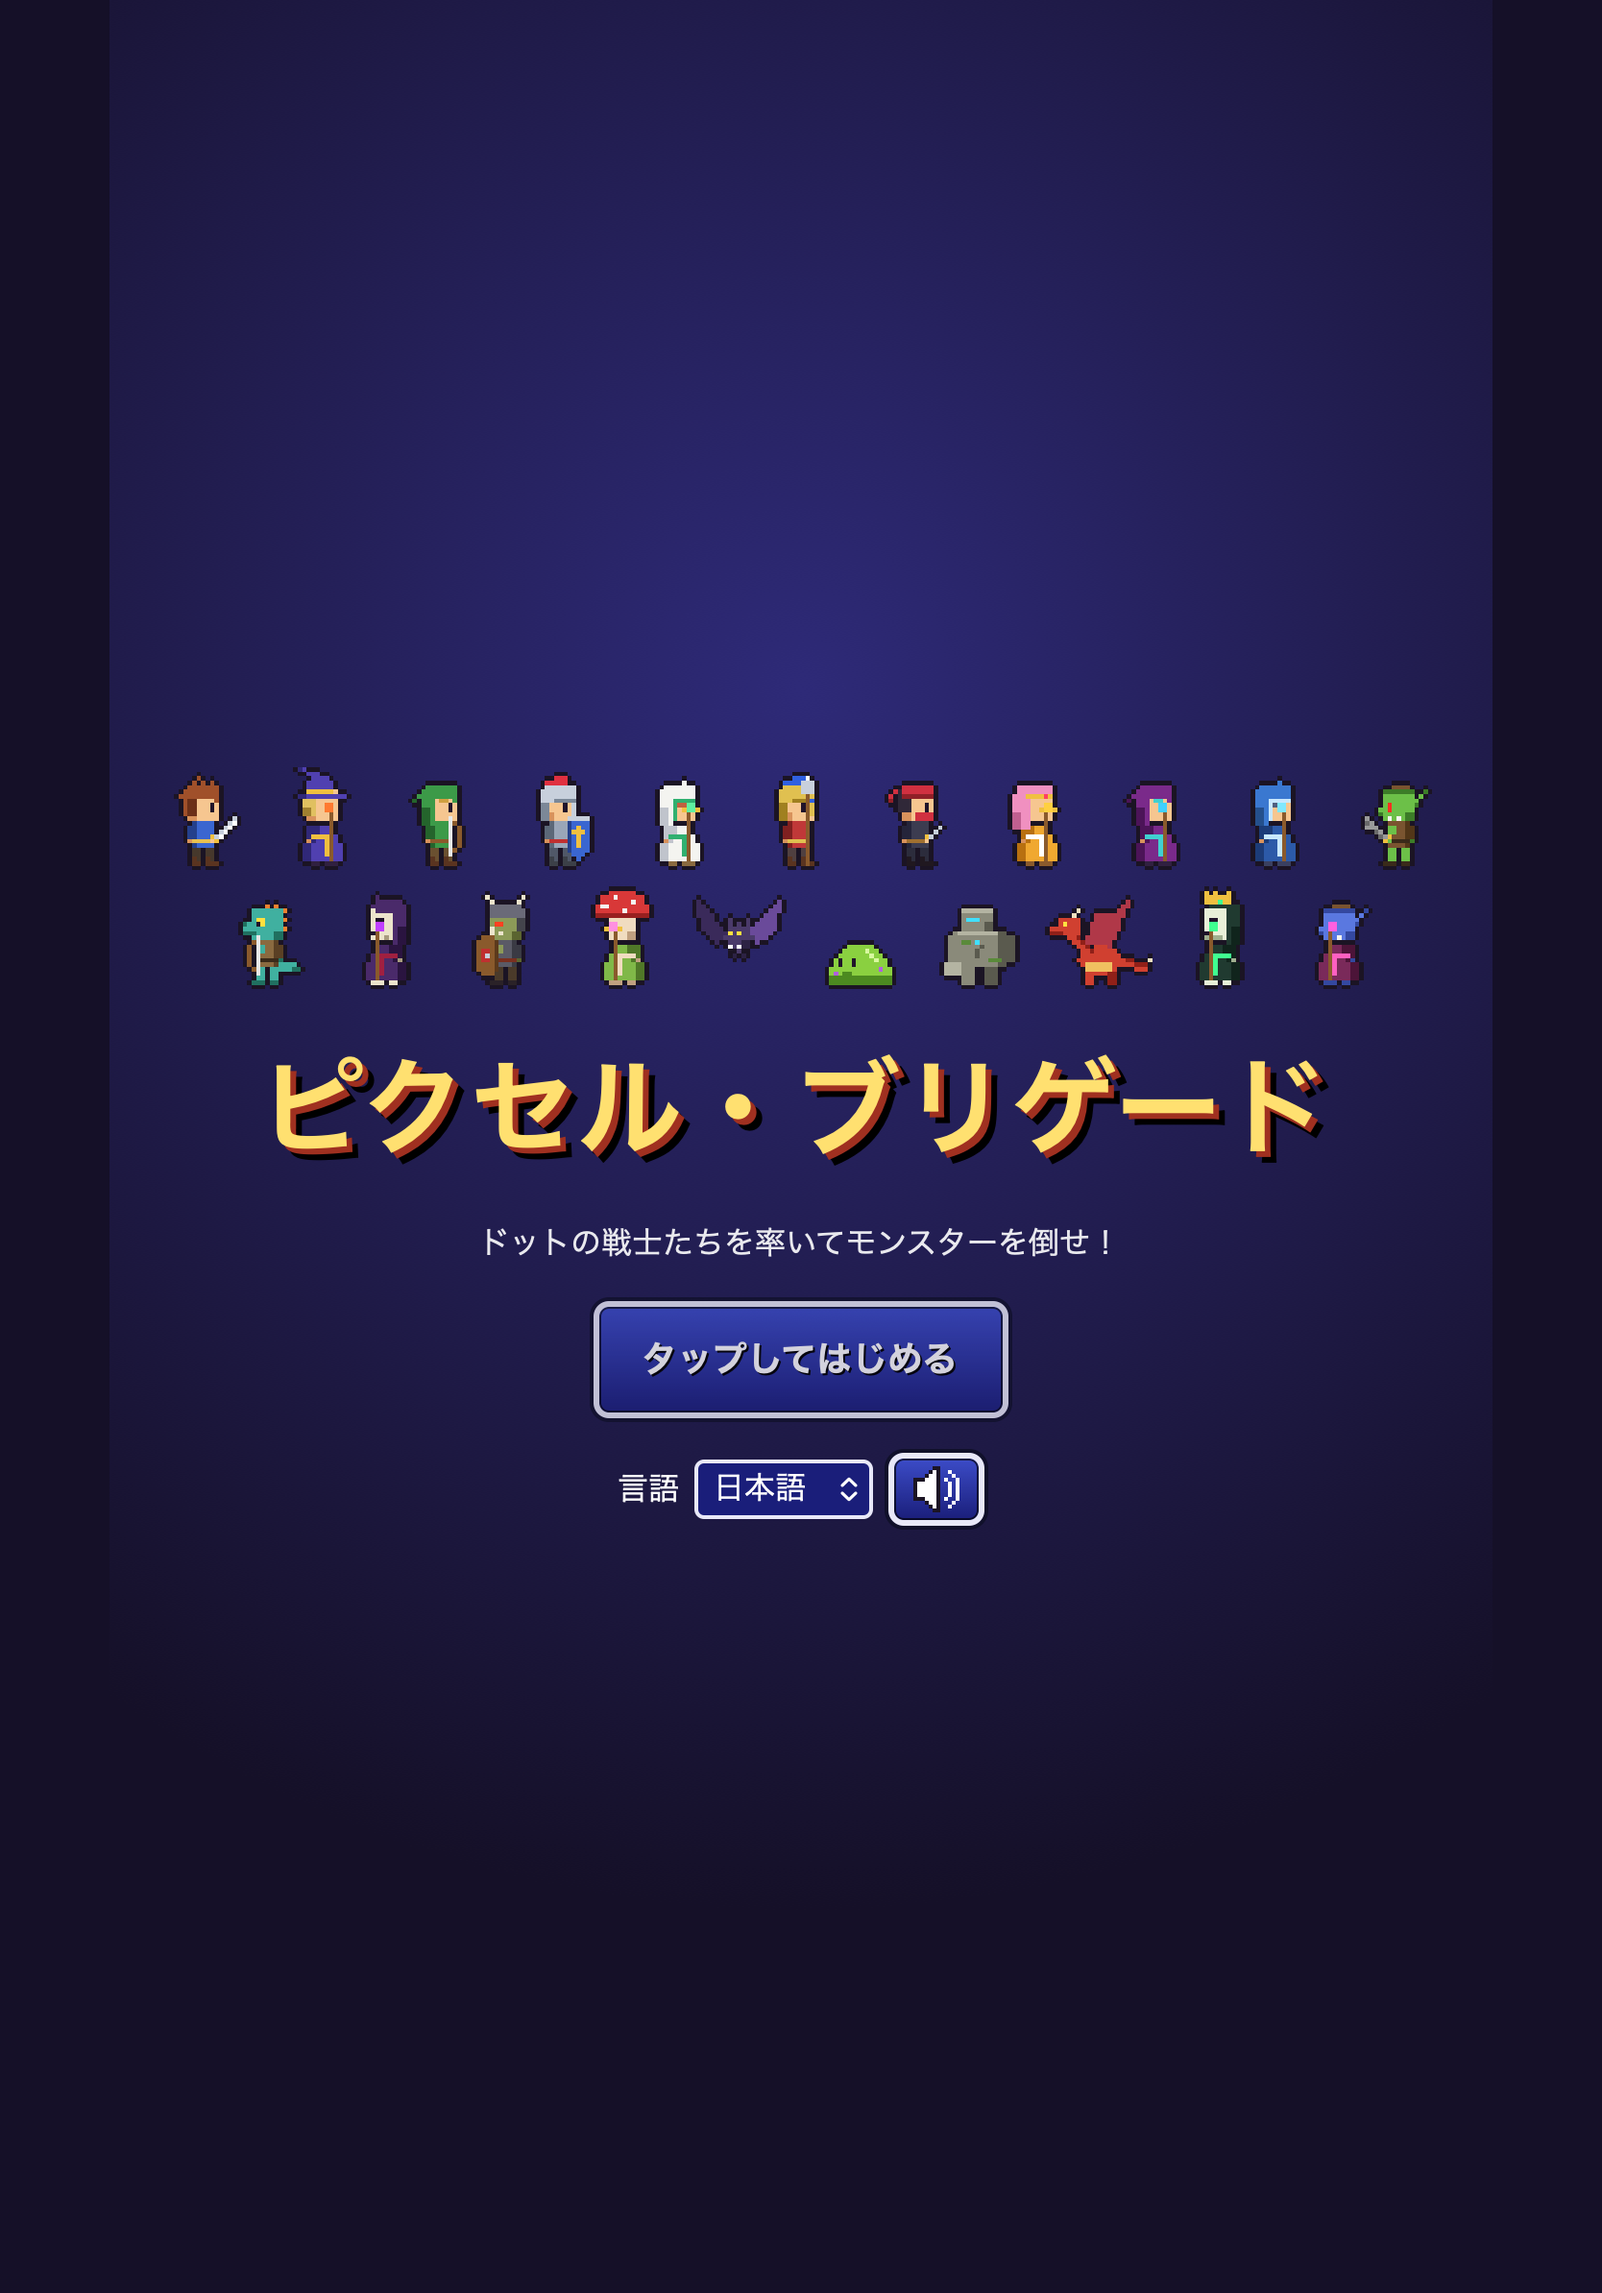
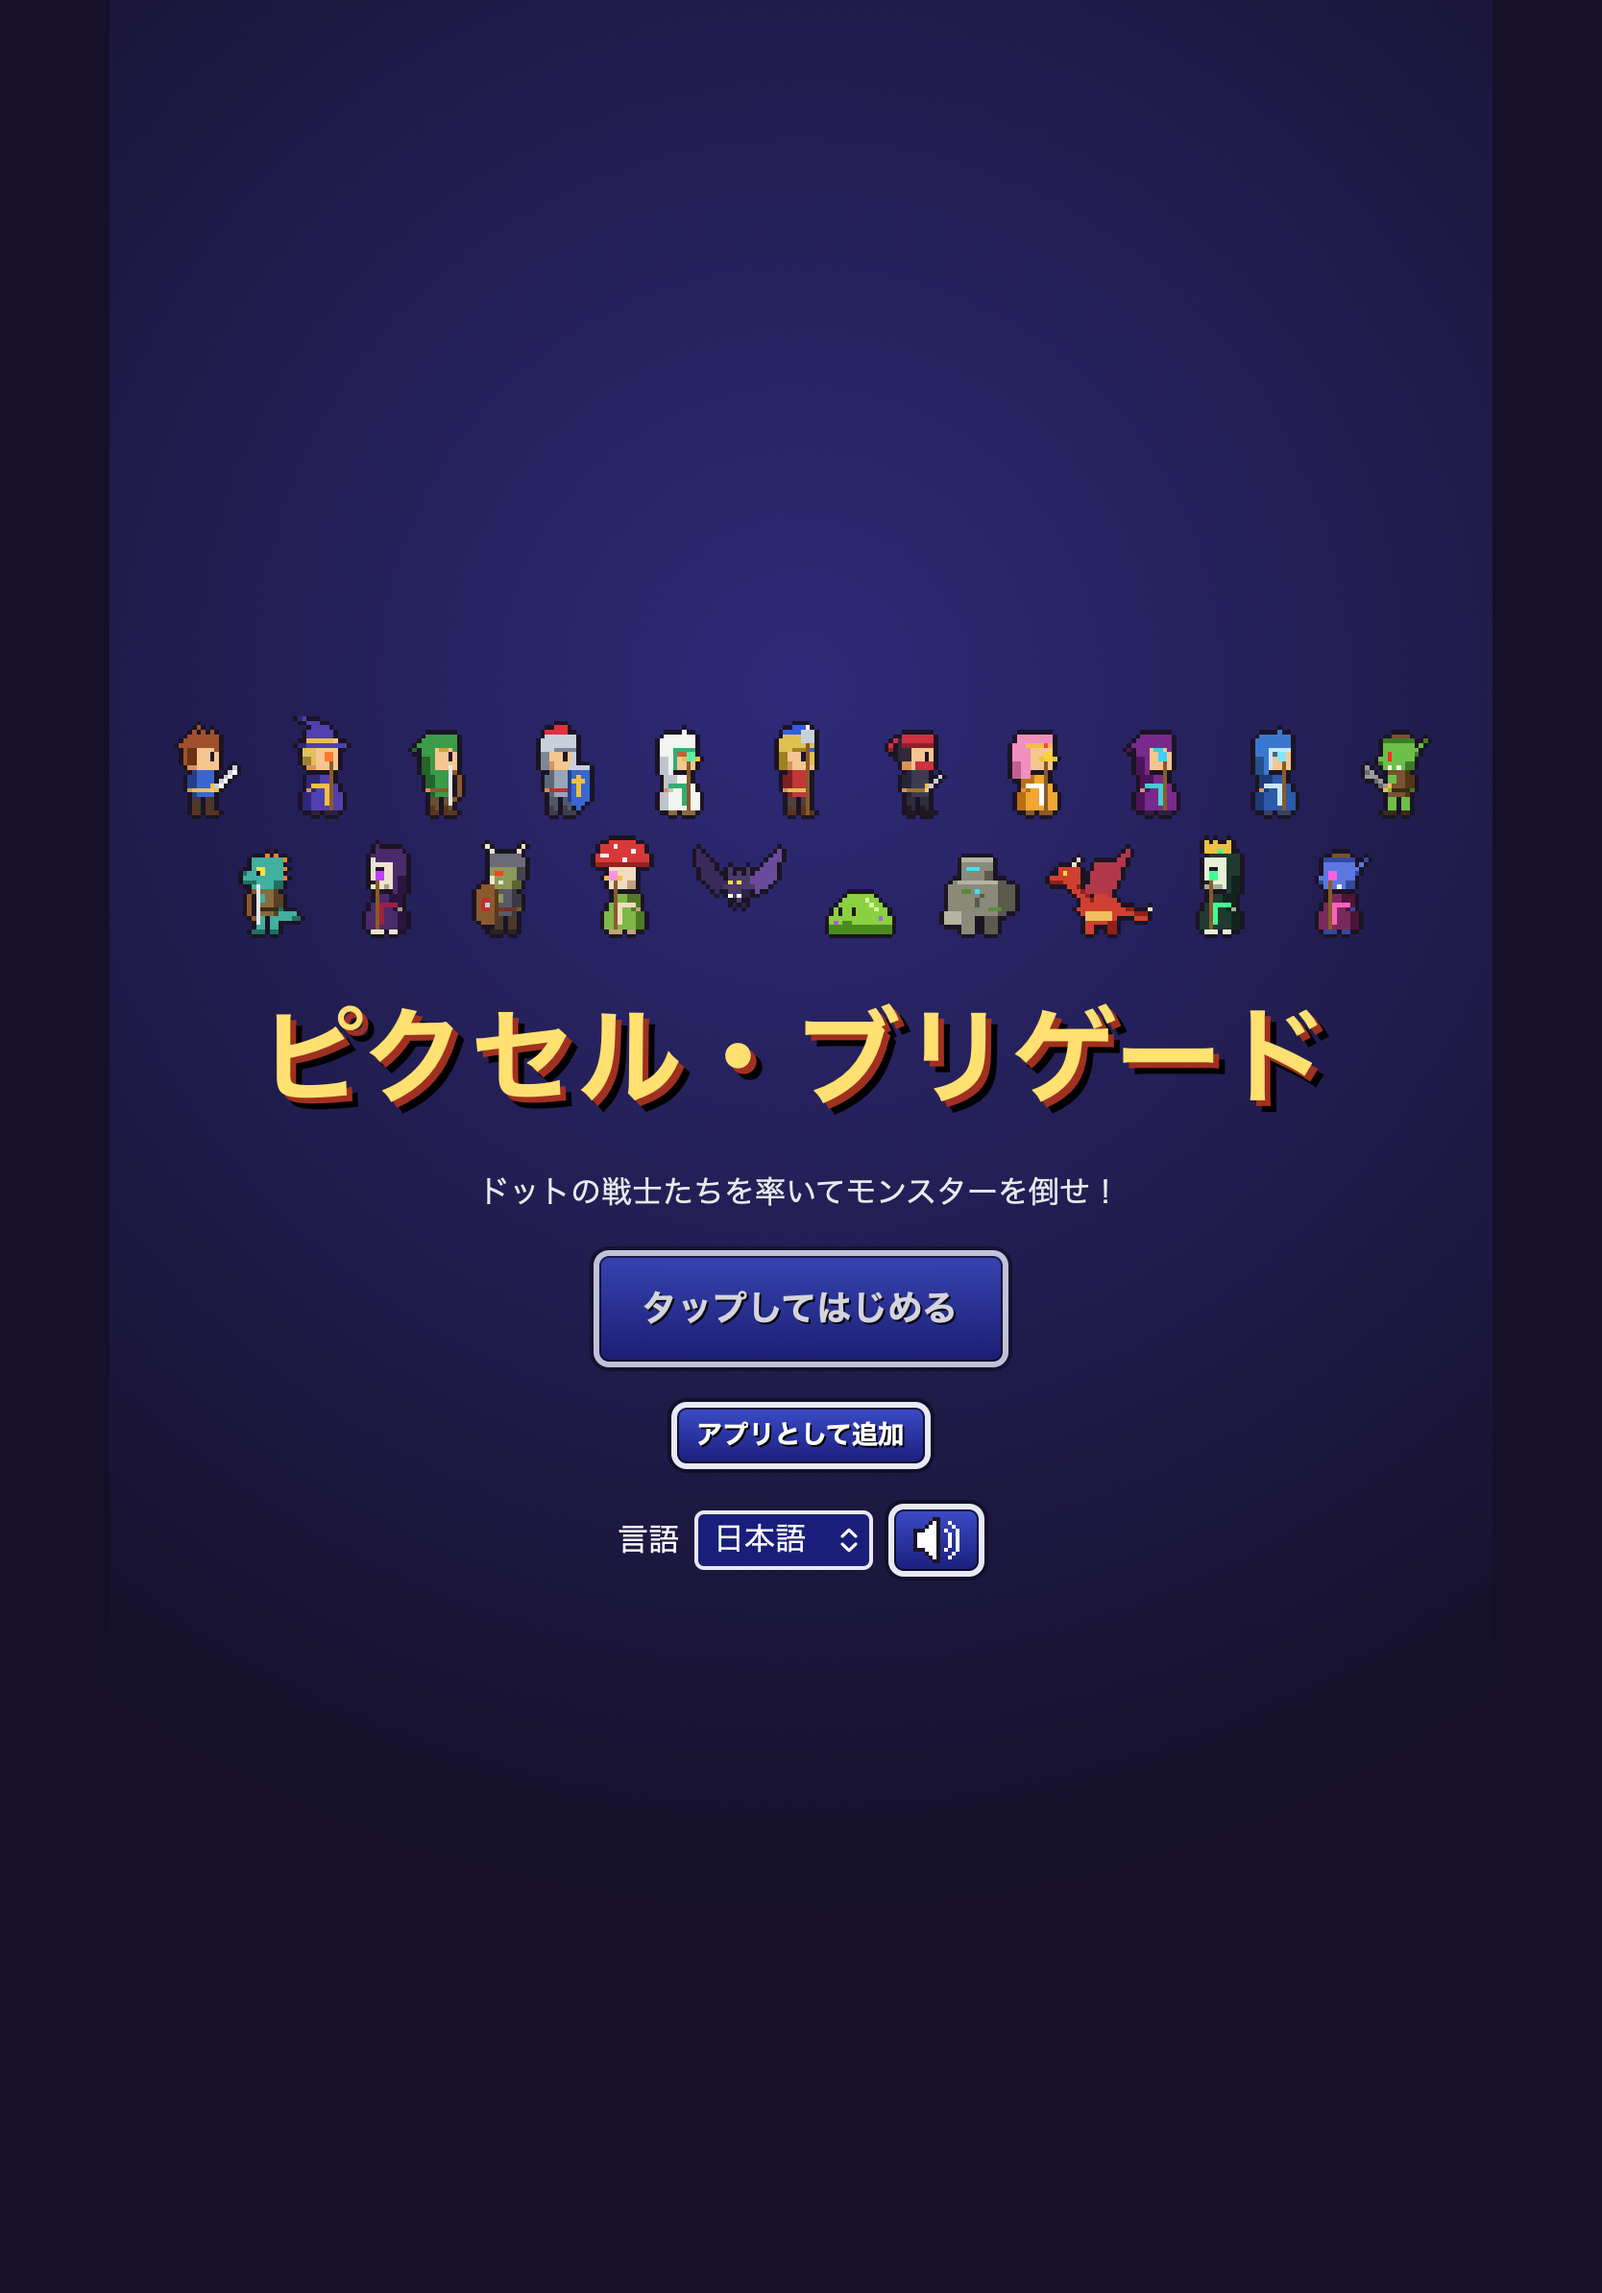
Add PWA install guide for iPhone/iPad and run CI in the Playwright Docker image
- Title screen "Install app" button: uses beforeinstallprompt on Chromium,
  shows Share → Add to Home Screen steps on iOS/iPadOS (incl. Mac-UA iPad)
- apple-touch-icon sizes, i18n strings (ja/en/zh/ko), E2E tests
- CI e2e jobs run in mcr.microsoft.com/playwright container (no apt install),
  dependency-free tests/serve.mjs static server

Changed region(s): [[0.0935, 0.3099, 0.9041, 0.7127]]

diff --git a/js/i18n.js b/js/i18n.js
@@ -3,6 +3,11 @@ export const LANGS = { ja: '日本語', en: 'English', zh: '中文', ko: '한국
 
 export const STRINGS = {
   ja: {
+    'pwa.install': 'アプリとして追加',
+    'pwa.title': 'ホーム画面に追加してアプリとして遊ぶ',
+    'pwa.step1': 'Safari の共有ボタン（□に↑）をタップします',
+    'pwa.step2': '「ホーム画面に追加」を選び、「Web アプリとして開く」をオンにします',
+    'pwa.step3': '右上の「追加」をタップすると、ホーム画面のアイコンから全画面で遊べます',
     'game.title': 'ピクセル・ブリゲード',
     'game.subtitle': 'ドットの戦士たちを率いてモンスターを倒せ！',
     'title.tap': 'タップしてはじめる',
@@ -80,6 +85,11 @@ export const STRINGS = {
     'result.home': 'ホームへ',
   },
   en: {
+    'pwa.install': 'Install app',
+    'pwa.title': 'Add to Home Screen to play as an app',
+    'pwa.step1': 'Tap the Share button (square with ↑) in Safari',
+    'pwa.step2': 'Choose “Add to Home Screen” and turn on “Open as Web App”',
+    'pwa.step3': 'Tap “Add”. Launch from the Home Screen icon to play full screen',
     'game.title': 'Pixel Brigade',
     'game.subtitle': 'Lead your pixel warriors against the monsters!',
     'title.tap': 'Tap to start',
@@ -157,6 +167,11 @@ export const STRINGS = {
     'result.home': 'Home',
   },
   zh: {
+    'pwa.install': '添加为应用',
+    'pwa.title': '添加到主屏幕，以应用方式游玩',
+    'pwa.step1': '点击 Safari 的分享按钮（方框加↑）',
+    'pwa.step2': '选择“添加到主屏幕”，并开启“作为网页 App 打开”',
+    'pwa.step3': '点击“添加”，之后从主屏幕图标全屏游玩',
     'game.title': '像素军团',
     'game.subtitle': '率领像素勇士击败怪物！',
     'title.tap': '点击开始',
@@ -234,6 +249,11 @@ export const STRINGS = {
     'result.home': '返回主页',
   },
   ko: {
+    'pwa.install': '앱으로 추가',
+    'pwa.title': '홈 화면에 추가하여 앱으로 플레이',
+    'pwa.step1': 'Safari의 공유 버튼(□에 ↑)을 탭합니다',
+    'pwa.step2': '‘홈 화면에 추가’를 선택하고 ‘웹 앱으로 열기’를 켭니다',
+    'pwa.step3': '‘추가’를 탭하면 홈 화면 아이콘에서 전체 화면으로 플레이할 수 있습니다',
     'game.title': '픽셀 브리게이드',
     'game.subtitle': '픽셀 전사들을 이끌고 몬스터를 물리쳐라!',
     'title.tap': '탭하여 시작',

diff --git a/tests/game.spec.js b/tests/game.spec.js
@@ -697,6 +697,37 @@ test('PWA: マニフェストとアイコンが有効で、Service Worker によ
   await context.setOffline(false);
 });
 
+test('PWA: iPhone / iPad では「アプリとして追加」ボタンからホーム画面への追加手順を表示する', async ({ page }, info) => {
+  await page.goto('/index.html');
+  const btn = page.getByTestId('btn-install');
+  if (info.project.name === 'android') {
+    // Chromium shows the button only after beforeinstallprompt (never fired in the test browser)
+    await expect(btn).toBeHidden();
+    return;
+  }
+  await expect(btn).toBeVisible();
+  await expect(btn).toHaveText(JA['pwa.install']);
+  await btn.click();
+  const guide = page.getByTestId('install-guide');
+  await expect(guide).toBeVisible();
+  await expect(guide).toContainText(JA['pwa.step1']);
+  await expect(guide).toContainText(JA['pwa.step2']);
+  await page.click('#btn-modal-close');
+  await expect(guide).toBeHidden();
+});
+
+test('PWA: iPadOS のデスクトップ版 UA（Macintosh + タッチ）でも iPad と判定してボタンを表示する', async ({ browser }) => {
+  const ctx = await browser.newContext({
+    userAgent: 'Mozilla/5.0 (Macintosh; Intel Mac OS X 10_15_7) AppleWebKit/605.1.15 (KHTML, like Gecko) Version/18.0 Safari/605.1.15',
+    hasTouch: true, viewport: { width: 820, height: 1180 },
+  });
+  const page = await ctx.newPage();
+  await page.addInitScript(() => Object.defineProperty(Navigator.prototype, 'maxTouchPoints', { get: () => 5 }));
+  await page.goto('/index.html');
+  await expect(page.getByTestId('btn-install')).toBeVisible();
+  await ctx.close();
+});
+
 test('魔法：敵も魔法を使い、範囲内の相手の最大HPの割合でダメージを与える', async ({ page }) => {
   await gotoPrep(page, { stage: 2 });
   // stage 2 already has an enemy mage

diff --git a/js/main.js b/js/main.js
@@ -972,3 +972,26 @@ init();
 if ('serviceWorker' in navigator && window.isSecureContext) {
   window.addEventListener('load', () => { navigator.serviceWorker.register('./sw.js').catch(() => {}); });
 }
+
+// PWA install button. Chromium fires beforeinstallprompt; iOS / iPadOS Safari never prompts, so we show
+// the "Share → Add to Home Screen" steps instead. iPadOS reports a Mac user agent, hence the touch check.
+const isStandalone = () => window.matchMedia('(display-mode: standalone)').matches || navigator.standalone === true;
+const isIOS = () => /iPad|iPhone|iPod/.test(navigator.userAgent) || (/Macintosh/.test(navigator.userAgent) && navigator.maxTouchPoints > 1);
+let installPrompt = null;
+function showInstallGuide() {
+  openModal(() => {
+    const box = $('#modal-content'); box.innerHTML = ''; box.dataset.testid = 'install-guide';
+    const h = el('h3'); h.textContent = t('pwa.title'); box.appendChild(h);
+    const ol = el('ol', 'install-steps');
+    for (const k of ['pwa.step1', 'pwa.step2', 'pwa.step3']) { const li = el('li'); li.textContent = t(k); ol.appendChild(li); }
+    box.appendChild(ol);
+  });
+}
+const btnInstall = $('#btn-install');
+if (!isStandalone() && isIOS()) btnInstall.classList.remove('hidden');
+window.addEventListener('beforeinstallprompt', (e) => { e.preventDefault(); installPrompt = e; btnInstall.classList.remove('hidden'); });
+window.addEventListener('appinstalled', () => { installPrompt = null; btnInstall.classList.add('hidden'); });
+btnInstall.addEventListener('click', async () => {
+  if (installPrompt) { installPrompt.prompt(); await installPrompt.userChoice.catch(() => {}); installPrompt = null; btnInstall.classList.add('hidden'); }
+  else showInstallGuide();
+});

diff --git a/index.html b/index.html
@@ -12,7 +12,7 @@
   <meta name="description" content="ドット絵の仲間を配置して戦うオートバトルゲーム">
   <link rel="manifest" href="manifest.json">
   <link rel="icon" type="image/png" sizes="32x32" href="icons/favicon-32.png">
-  <link rel="apple-touch-icon" href="icons/apple-touch-icon.png">
+  <link rel="apple-touch-icon" sizes="180x180" href="icons/apple-touch-icon.png">
   <link rel="stylesheet" href="css/style.css">
 </head>
 <body>
@@ -23,6 +23,7 @@
       <h1 class="logo" data-i18n="game.title"></h1>
       <p class="subtitle" data-i18n="game.subtitle"></p>
       <button id="btn-title-start" class="btn big blink" data-i18n="title.tap"></button>
+      <button id="btn-install" class="btn small hidden" data-testid="btn-install" data-i18n="pwa.install"></button>
       <div class="lang-row"><span data-i18n="common.language"></span> <select class="lang-select" data-testid="lang-select"></select>
         <button class="btn small btn-sound" data-testid="btn-sound-title"><img class="px-icon" alt=""></button></div>
     </section>

diff --git a/playwright.config.js b/playwright.config.js
@@ -12,7 +12,7 @@ export default defineConfig({
   reporter: process.env.CI ? [['dot']] : [['list']],
   use: { baseURL: 'http://127.0.0.1:8123', trace: 'retain-on-failure' },
   webServer: {
-    command: 'python3 -m http.server 8123 --bind 127.0.0.1',
+    command: 'node tests/serve.mjs 8123',   // tiny Node server: no Python needed (works in the Playwright Docker image)
     url: 'http://127.0.0.1:8123/index.html',
     reuseExistingServer: true,
   },

diff --git a/css/style.css b/css/style.css
@@ -271,3 +271,5 @@ body.big-board #prep-panel .hint { display: none; }
 #field.big .unit .rank.long { font-size: 7px; padding: 0 1px; }
 #field.big .unit .hpbar { height: 3px; top: 0; }
 #field.big .dmg { font-size: 11px; }
+
+.install-steps { margin: 0; padding-left: 1.4em; display: flex; flex-direction: column; gap: 8px; line-height: 1.5; }
